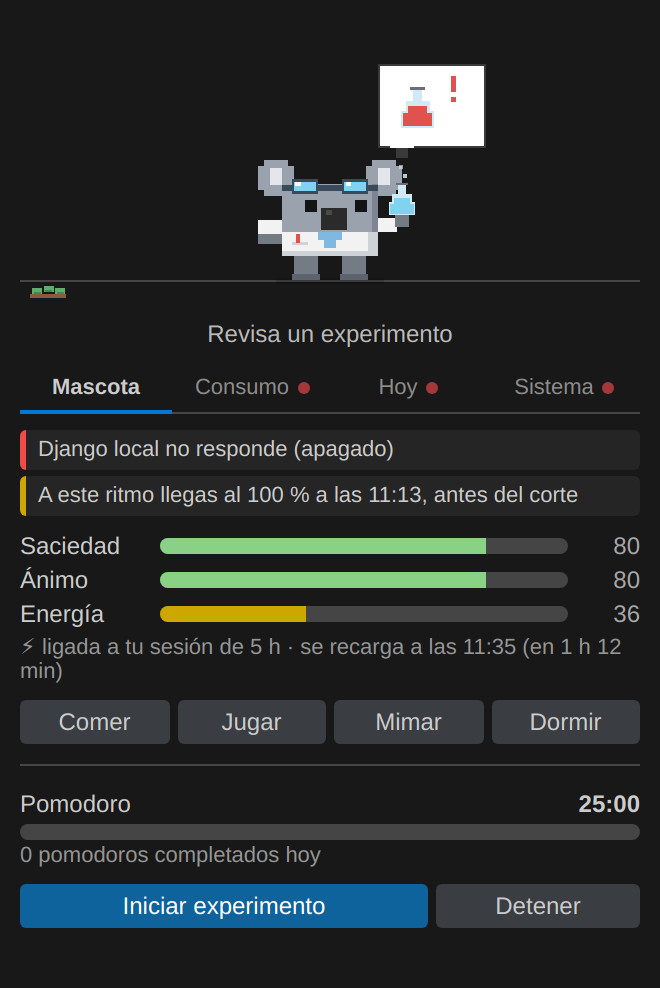
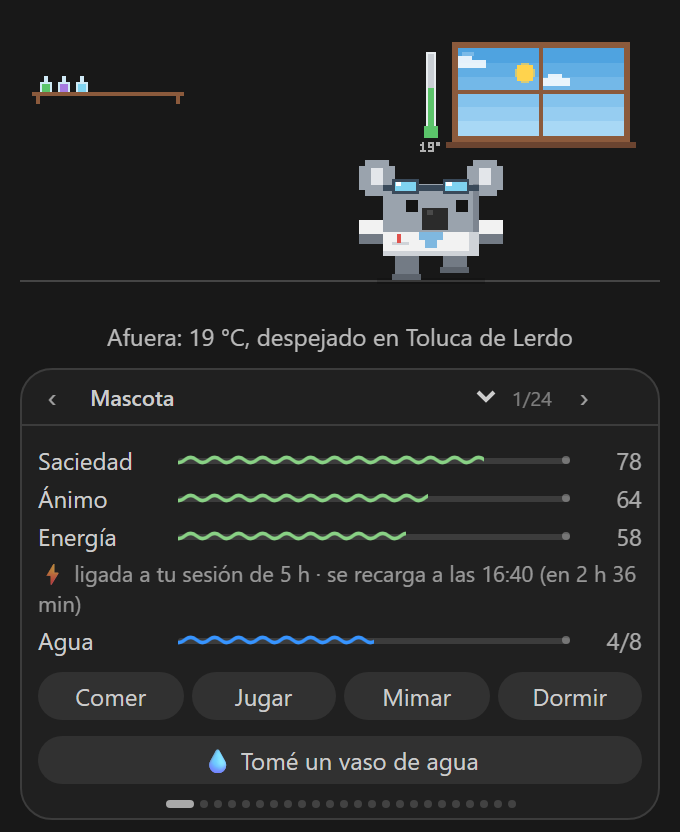
docs: capturas actualizadas (9 animaciones y tarjetas Mascota, Cuotas de IA, Uso por hora y Sistema), script capturas-panel.js e invitación a los podcasts CiencIA y CiencIAficción

diff --git a/pruebas/capturas-panel.js b/pruebas/capturas-panel.js
@@ -1,0 +1,140 @@
+'use strict';
+// Capturas del panel para el README (docs/capturas/panel-*.png) con datos de DEMOSTRACIÓN: arma el HTML real de
+// vista.js, le manda un estado inventado y lo fotografía con Edge (o Chrome) sin ventana por el protocolo de
+// depuración. Nunca usa datos del usuario.
+// Uso: node pruebas/capturas-panel.js          (EDGE=<ruta al navegador> si no está en el lugar de siempre)
+const path = require('path');
+const fs = require('fs');
+const os = require('os');
+const Module = require('module');
+const { spawn } = require('child_process');
+
+const RAIZ = path.join(__dirname, '..');
+const SALIDA = path.join(RAIZ, 'docs', 'capturas');
+const ANCHO = 340; // ancho típico de la barra lateral de VS Code
+const uriDe = (p) => ({ fsPath: p, toString() { return 'file:///' + p.replace(/\\/g, '/'); } });
+const cargar = Module._load;
+Module._load = function (req, ...r) {
+  if (req === 'vscode') return { Uri: { joinPath: (u, ...p) => uriDe(path.join(u.fsPath, ...p)) }, workspace: { getConfiguration: () => ({ get: (k, d) => d }) }, env: { language: 'es' } };
+  return cargar.call(this, req, ...r);
+};
+const { htmlVista } = require(path.join(RAIZ, 'vista.js'));
+
+// ---------- Estado de demostración ----------
+let semilla = 11;
+const azar = () => { semilla = (semilla * 1664525 + 1013904223) >>> 0; return semilla / 4294967296; };
+const enHoras = (h) => Date.now() + h * 3600e3;
+const vacio = () => Array.from({ length: 7 }, () => new Array(24).fill(0));
+const mapa = vacio(), gemini = vacio(), claudeAgy = vacio();
+for (let i = 0; i < 7; i++) {
+  for (let h = 0; h < 24; h++) {
+    if (i === 1 || i === 2) continue; // fin de semana tranquilo
+    if ((h >= 9 && h <= 13) || (h >= 16 && h <= 18)) if (azar() < 0.8) mapa[i][h] = 40000 + Math.floor(azar() * 160000);
+    if (h >= 11 && h <= 15 && azar() < 0.45) gemini[i][h] = 60000 + Math.floor(azar() * 300000);
+    if (h === 20 && azar() < 0.5) claudeAgy[i][h] = 50000;
+  }
+}
+const GB = 1024 ** 3;
+const estado = {
+  tipo: 'estado', necesidades: { saciedad: 78, animo: 64, energia: 58 }, durmiendo: false, trabajando: false,
+  energiaLigada: true, umbral: 90, temporada: 'ninguna', sinIconoComida: true,
+  horaPrueba: (() => { const d = new Date(); d.setHours(11, 20, 0, 0); return d.getTime(); })(),
+  rutina: { agua: 4, metaAgua: 8, logros: [], diasSinErrores: 0 },
+  uso: {
+    cinco: { pct: 38, reinicio: enHoras(2.6) }, semana: { pct: 21, reinicio: enHoras(98) }, extras: [],
+    fuente: 'anthropic', actualizado: Date.now() - 120000, ritmo: { estado: 'holgado' }, local: { tokens5h: 1180000, tokens7d: 6400000 },
+  },
+  antigravity: {
+    estado: 'ok', actualizado: Date.now() - 180000, hooks: true, grupos: [
+      { nombre: 'Gemini Models', modelos: 'Gemini 4 Neon, Gemini 4 Hydrogen, Gemini 3.8 Flash', limites: [{ ventana: '5h', restantePct: 81, reinicio: enHoras(3.4) }, { ventana: 'semana', restantePct: 72, reinicio: enHoras(120) }] },
+      { nombre: 'Claude and GPT models', modelos: 'Claude Opus 5.5, Claude Sonnet 5.5, GPT-OSS 120B', limites: [{ ventana: '5h', restantePct: 100, reinicio: enHoras(5) }, { ventana: 'semana', restantePct: 22, reinicio: enHoras(140) }] },
+      { nombre: 'Gemini 4 Argon', modelos: '', limites: [{ ventana: 'semana', restantePct: 95, reinicio: enHoras(121) }] },
+    ],
+  },
+  hoy: {
+    mapa, mapaAgy: { gemini, claude: claudeAgy, otro: vacio() }, dias: ['vie', 'sáb', 'dom', 'lun', 'mar', 'mié', 'jue'],
+    tokens: 1240000, mensajes: 164, cachePct: 91, modelos: { 'claude-opus-5-5': 980000, 'claude-sonnet-5-5': 260000 },
+    proyectos: { 'visor-mapas': 720000, 'api-reportes': 380000, koala: 140000 }, herramientas: { Edit: 41, Bash: 33, Read: 27, Grep: 12 },
+  },
+  activoHoy: 3 * 3600 + 10 * 60, pomodoro: { fase: null, hoy: 3 },
+  sistema: {
+    host: 'mi-servidor', nucleos: 16, cpu: 27, carga: 2.4, temperatura: 58, encendido: 9 * 86400,
+    memoria: { usada: 21.4 * GB, total: 64 * GB, pct: 33 }, discos: [{ ruta: '/', usada: 310 * GB, total: 512 * GB, pct: 61 }],
+  },
+  servicios: [
+    { nombre: 'API de reportes', url: 'http://localhost:8000/', ok: true, ms: 42 },
+    { nombre: 'Visor de mapas', url: 'http://localhost:5173/', ok: true, ms: 18 },
+    { nombre: 'Base de datos', url: 'http://localhost:5432/', ok: false, detalle: 'apagado' },
+  ],
+  clima: { temp: 19, tipo: 'despejado', nombre: 'Toluca de Lerdo' },
+  git: [], diag: { errores: 0, avisos: 0, archivos: 0 }, alertas: [],
+};
+
+// [archivo, carruseles que se ven, ¿incluir al koala?]
+const CAPTURAS = [
+  ['panel-mascota', ['mascota'], true],
+  ['panel-cuotas', ['cuotas'], false],
+  ['panel-calor', ['calor', 'resumen'], false],
+  ['panel-sistema', ['servidor', 'servicios'], false],
+];
+
+function html(carruseles) {
+  let h = htmlVista({ asWebviewUri: (u) => u.toString(), cspSource: 'file:' }, uriDe(RAIZ));
+  h = h.replace(/<meta http-equiv="Content-Security-Policy"[^>]*>/, '').replace('<body>', '<body class="vscode-dark">');
+  // Colores del tema oscuro por omisión de VS Code (Dark Modern).
+  const tema = 'body{background:#181818;color:#ccc;--vscode-foreground:#cccccc;--vscode-editorWidget-background:#202020;' +
+    '--vscode-editorWidget-border:#3c3c3c;--vscode-charts-blue:#3794ff;--vscode-charts-purple:#b180d7;--vscode-charts-green:#89d185;' +
+    '--vscode-charts-orange:#d18616;--vscode-charts-red:#f14c4c;--vscode-charts-yellow:#cca700;--vscode-button-background:#0078d4;' +
+    '--vscode-button-foreground:#fff;--vscode-button-secondaryBackground:#313131;--vscode-button-secondaryForeground:#ccc;' +
+    '--vscode-font-family:"Segoe UI",system-ui,sans-serif}';
+  h = h.replace('</head>', `<style>${tema}</style></head>`);
+  const e = Object.assign({}, estado, { carruseles });
+  return h.replace('</body>', `<script>setTimeout(function(){ window.postMessage(${JSON.stringify(e)}, '*'); }, 200);</script></body>`);
+}
+
+const dormir = (ms) => new Promise((r) => setTimeout(r, ms));
+const navegador = process.env.EDGE || ['C:\\Program Files (x86)\\Microsoft\\Edge\\Application\\msedge.exe', 'C:\\Program Files\\Microsoft\\Edge\\Application\\msedge.exe',
+  '/usr/bin/google-chrome', '/usr/bin/chromium', '/Applications/Google Chrome.app/Contents/MacOS/Google Chrome'].find((p) => fs.existsSync(p));
+if (!navegador) throw new Error('No encontré Edge ni Chrome (usa EDGE=<ruta>)');
+
+(async () => {
+  const tmp = fs.mkdtempSync(path.join(os.tmpdir(), 'koala-capturas-'));
+  const PUERTO = 9334;
+  const proc = spawn(navegador, ['--headless=new', '--disable-gpu', '--allow-file-access-from-files', `--remote-debugging-port=${PUERTO}`, `--user-data-dir=${path.join(tmp, 'perfil')}`, 'about:blank'], { stdio: 'ignore' });
+  try {
+    let objetivo = null;
+    for (let i = 0; i < 40 && !objetivo; i++) {
+      await dormir(250);
+      try { objetivo = (await (await fetch(`http://127.0.0.1:${PUERTO}/json`)).json()).find((t) => t.type === 'page'); } catch (e) { /* aún no */ }
+    }
+    if (!objetivo) throw new Error('el navegador no abrió el puerto de depuración');
+    const ws = new WebSocket(objetivo.webSocketDebuggerUrl);
+    await new Promise((r) => ws.addEventListener('open', r));
+    let n = 0;
+    const pendientes = new Map();
+    ws.addEventListener('message', (ev) => { const m = JSON.parse(ev.data); if (m.id && pendientes.has(m.id)) { pendientes.get(m.id)(m.result || {}); pendientes.delete(m.id); } });
+    const cdp = (method, params = {}) => new Promise((r) => { const id = ++n; pendientes.set(id, r); ws.send(JSON.stringify({ id, method, params })); });
+    const evaluar = async (expr) => (await cdp('Runtime.evaluate', { expression: expr, returnByValue: true })).result.value;
+    await cdp('Emulation.setDeviceMetricsOverride', { width: ANCHO, height: 900, deviceScaleFactor: 2, mobile: false });
+    fs.mkdirSync(SALIDA, { recursive: true });
+    for (const [nombre, carruseles, conKoala] of CAPTURAS) {
+      const archivo = path.join(tmp, nombre + '.html');
+      fs.writeFileSync(archivo, html(carruseles));
+      await cdp('Page.navigate', { url: 'file:///' + archivo.replace(/\\/g, '/') });
+      await dormir(2500); // que el koala camine un poco y las barras terminen su animación
+      const r = JSON.parse(await evaluar(`(() => {
+        const cs = [...document.querySelectorAll('#carruseles .carrusel')];
+        const arriba = ${conKoala} ? 0 : cs[0].getBoundingClientRect().top - 6;
+        const abajo = cs[cs.length - 1].getBoundingClientRect().bottom + 6;
+        return JSON.stringify({ arriba, abajo });
+      })()`));
+      const foto = await cdp('Page.captureScreenshot', { format: 'png', clip: { x: 0, y: r.arriba, width: ANCHO, height: r.abajo - r.arriba, scale: 1 } });
+      fs.writeFileSync(path.join(SALIDA, nombre + '.png'), Buffer.from(foto.data, 'base64'));
+      console.log('→ docs/capturas/' + nombre + '.png');
+    }
+    ws.close();
+  } finally {
+    proc.kill();
+    setTimeout(() => { try { fs.rmSync(tmp, { recursive: true, force: true }); } catch (e) { /* el navegador aún lo usa */ } }, 1500);
+  }
+})().catch((e) => { console.error(e.message); process.exitCode = 1; });

diff --git a/pruebas/capturas-readme.js b/pruebas/capturas-readme.js
@@ -1,5 +1,5 @@
 'use strict';
-// Imagen de animaciones para el readme: docs/capturas/animaciones.png (3 × 2 cuadros).
+// Imagen de animaciones para el readme: docs/capturas/animaciones.png (3 × 3 cuadros).
 // Uso: node pruebas/capturas-readme.js
 const path = require('path');
 const fs = require('fs');
@@ -20,7 +20,17 @@ toma(1, (e) => { e.enviar(base()); e.avanzar(0.2); e.enviar(base({ trabajando: t
 toma(2, (e) => { e.enviar(base({ pomodoro: { fase: 'enfoque', total: 1500000, restante: 900000, pausado: false, hoy: 2, enfoque: 25 } })); e.avanzar(5.5); });
 toma(3, (e) => { e.enviar(base()); e.avanzar(0.3); e.enviar({ tipo: 'accion', accion: 'festejarCommit', datos: { repo: 'app', mensaje: 'feat' } }); e.avanzar(2.4); });
 toma(4, (e) => { e.enviar(base()); e.avanzar(0.3); e.enviar({ tipo: 'accion', accion: 'comandoFallo', datos: { comando: 'pytest', codigo: 1 } }); e.avanzar(1.3); });
-toma(5, (e) => { e.enviar(base({ temporada: 'muertos' })); e.avanzar(1); });
+// Se trepa a dormir al eucalipto tras mucho trabajo seguido.
+toma(7, (e) => { e.enviar(base({ trabajando: true, minutosTreparse: 120, rutina: { continuoMin: 130 } })); e.avanzar(10); });
+// Día de Muertos: visita la ofrenda.
+toma(5, (e) => { e.enviar(base({ temporada: 'muertos' })); e.avanzar(0.3); e.koala.probar('visitarOfrenda'); e.avanzar(2.6); });
+// Posadas: rompe la piñata junto al árbol de Navidad.
+toma(8, (e) => {
+  const posada = new Date(new Date().getFullYear(), 11, 18, 12, 0).getTime();
+  e.enviar(base({ temporada: 'navidad', horaPrueba: posada })); e.avanzar(0.3); e.koala.probar('romperPinata'); e.avanzar(3.25);
+});
+// Con música: audífonos y notas.
+toma(9, (e) => { e.enviar(base({ musica: { titulo: 'Cielito lindo', artista: 'Mariachi', sonando: true } })); e.avanzar(0.3); e.koala.probar('escucharMusica'); e.avanzar(1.1); });
 toma(6, (e) => {
   e.enviar(base({ temporada: 'marmota' })); e.avanzar(0.2);
   Object.assign(e.koala.k, { cargado: true, x: 205, pose: 'frente', def: { sx: 1, sy: 1 }, mirar: 1, ojos: 'abiertos', t: 2.4 }); // junto a la madriguera
@@ -28,7 +38,8 @@ toma(6, (e) => {
 });
 
 const col = 3, sep = 6, w = cuadros[0].w, h = cuadros[0].h;
-const W = col * w + (col + 1) * sep, H = 2 * h + 3 * sep;
+const filas = Math.ceil(cuadros.length / col);
+const W = col * w + (col + 1) * sep, H = filas * h + (filas + 1) * sep;
 const out = Buffer.alloc(W * H * 4);
 for (let i = 0; i < W * H; i++) { out[i * 4] = 0x2b; out[i * 4 + 1] = 0x45; out[i * 4 + 2] = 0x5c; out[i * 4 + 3] = 255; }
 cuadros.forEach((c, n) => {

diff --git a/README.md b/README.md
@@ -1,17 +1,17 @@
 # Koala científico 🐨🧪
 
 Mascota de laboratorio en pixel art para el Explorador de VS Code. Trabaja contigo (editor,
-terminal y Claude Code), festeja tus commits, te avisa cuando Claude te necesita y funciona como
-**mini monitor** de tu consumo de Claude Code: límites de **sesión (5 h)** y **semana**, ritmo,
-costo equivalente, pomodoro, git y servidor.
+terminal, Claude Code y el agente de Antigravity), festeja tus commits, te avisa cuando Claude te necesita y
+funciona como **mini monitor** de tu consumo de IA: límites de **sesión (5 h)** y **semana** de Claude Code y de
+Antigravity (Gemini), uso por hora, ritmo, costo equivalente, pomodoro, git y servidor.
 
 ![Animaciones del koala](docs/capturas/animaciones.png)
 
-| Mascota | Consumo | Hoy | Sistema |
+| Mascota | Cuotas de IA | Uso por hora | Sistema |
 |---|---|---|---|
-| ![Mascota](docs/capturas/panel-mascota.png) | ![Consumo](docs/capturas/panel-consumo.png) | ![Hoy](docs/capturas/panel-hoy.png) | ![Sistema](docs/capturas/panel-sistema.png) |
+| ![Mascota](docs/capturas/panel-mascota.png) | ![Cuotas de IA de Claude Code y Antigravity](docs/capturas/panel-cuotas.png) | ![Uso de IA por hora: Claude en azul y Gemini en naranja](docs/capturas/panel-calor.png) | ![Servidor y servicios](docs/capturas/panel-sistema.png) |
 
-*Capturas con datos de demostración.*
+*Capturas con datos de demostración (`node pruebas/capturas-panel.js` y `node pruebas/capturas-readme.js`).*
 
 ## Empezar
 1. Instala la extensión y abre el Explorador → **Koala científico**.
@@ -229,6 +229,12 @@ macOS pide permiso). Con **Settings Sync** de VS Code, el ánimo, la saciedad y 
 te siguen entre computadoras; el resto (pomodoros, tiempo activo, consumo) es de cada máquina.
 Si usas Claude Code por SSH, instala la extensión en el remoto (corre donde está `~/.claude`).
 
+## 🎙 Escucha nuestros podcasts
+Si te gustó el koala, pásate a escuchar nuestros podcasts sobre ciencia, inteligencia artificial y ciencia ficción:
+
+- **[CiencIA](https://creators.spotify.com/pod/profile/jjas/)**, en Spotify for Creators
+- **[CiencIAficción](https://creators.spotify.com/pod/profile/jjas1/)**, en Spotify for Creators
+
 ## Licencia
 MIT. Código en https://github.com/JJAS-029/koala_monitor.
 
@@ -236,6 +242,8 @@ MIT. Código en https://github.com/JJAS-029/koala_monitor.
 - Pruebas de la lógica: `npm test` (o `node --test pruebas/*.test.js`): alarmas, costos, consumo, rachas,
   logros, pomodoro, respuesta de Anthropic.
 - Pruebas de las animaciones sin navegador: `node pruebas/simular.js [carpeta]` (capturas PNG por acción).
+- Capturas del README: `node pruebas/capturas-readme.js` (animaciones) y `node pruebas/capturas-panel.js` (tarjetas
+  del panel con datos de demostración; necesita Edge o Chrome, o `EDGE=<ruta>`).
 - Ensayo de activación: `node pruebas/ensayo-activacion.js` (dos editores simulados con un contexto como el real;
   con `monitor`, que el monitor se configure solo en un equipo nuevo). Sin `node`, sirve el de VS Code:
   `ELECTRON_RUN_AS_NODE=1 "<ruta a Code.exe>" pruebas/ensayo-activacion.js`.

diff --git a/CHANGELOG.md b/CHANGELOG.md
@@ -1,5 +1,11 @@
 # Registro de cambios
 
+## Documentación (nov. 2026)
+- Capturas del README actualizadas: animaciones (ahora 9, con el eucalipto, la ofrenda, la piñata y los audífonos) y
+  tarjetas del panel (Mascota, Cuotas de IA, Uso por hora y Sistema), con datos de demostración.
+  Nuevo `pruebas/capturas-panel.js` para rehacerlas.
+- Invitación a nuestros podcasts: CiencIA y CiencIAficción.
+
 ## 1.12.0
 - **Cuotas de todos los modelos en una tarjeta**, al estilo del monitor de celular: un bloque por servicio (Claude Code
   y Antigravity) y un renglón por límite con barra ondulada a lo ancho, cuánto queda y cuándo se renueva. El color
